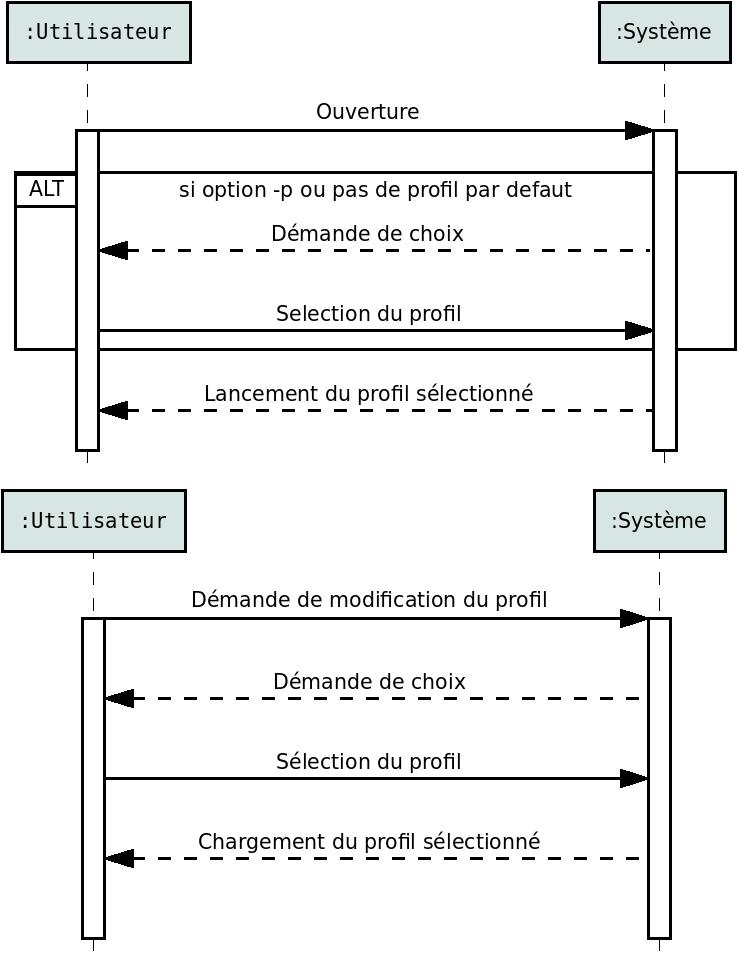
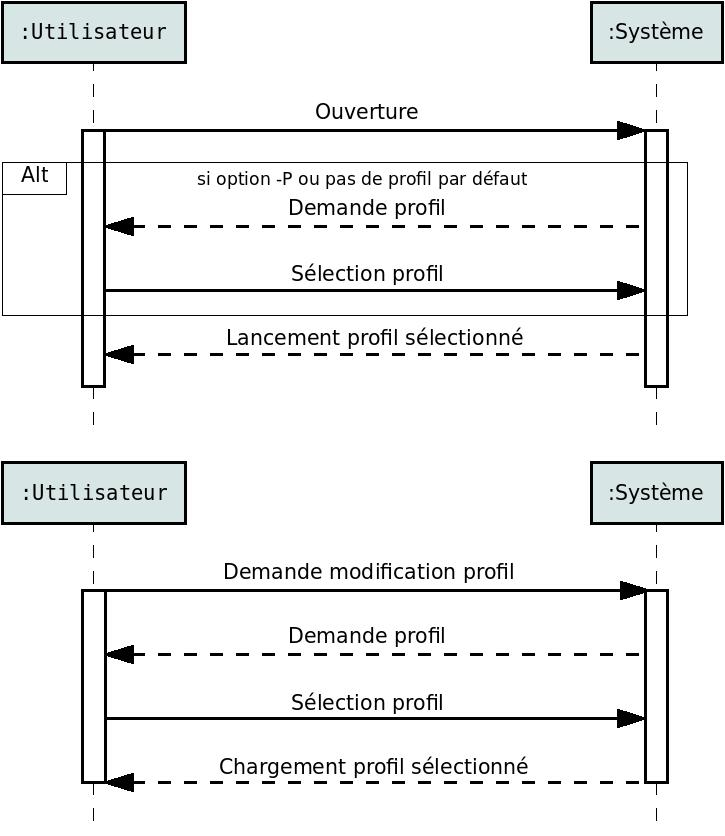
Correction du cas d'utilisation 4

Changed region(s): [[0.0, 0.0933, 1.0, 0.9952], [0.0, 0.0, 0.2731, 0.0933], [0.789, 0.0, 1.0, 0.0933]]

diff --git a/documents/STB/STB.tex b/documents/STB/STB.tex
@@ -265,7 +265,7 @@ Seul l'affichage de la dernière action doit être consultable, c'est-à-dire to
 % Acteurs concernés
 {Utilisateur}
 % Description
-{L'utilisateur peut choisir son profil au lancement de l'interface via une option, ou en cours d'utilisation. Si au lancement l'option n'est pas précisée, et qu'aucun profil par défaut n'est défini, l'utilisateur doit choisir un profil. Lors de l'installation, un profil par défaut est créé.}
+{L'utilisateur peut choisir son profil au lancement de l'interface via l'option \texttt{-P}, ou en cours d'utilisation. Si au lancement l'option \texttt{-P} n'est pas précisée, et qu'aucun profil par défaut n'est défini, l'utilisateur doit choisir un profil. Lors de l'installation, un profil par défaut est créé.}
 % Préconditions
 {Un fichier de configuration de l'interface doit contenir les différents profils, ainsi que l'éventuel profil par défaut. 
 Chaque profil possède un trousseau de clé qui lui est propre.}
